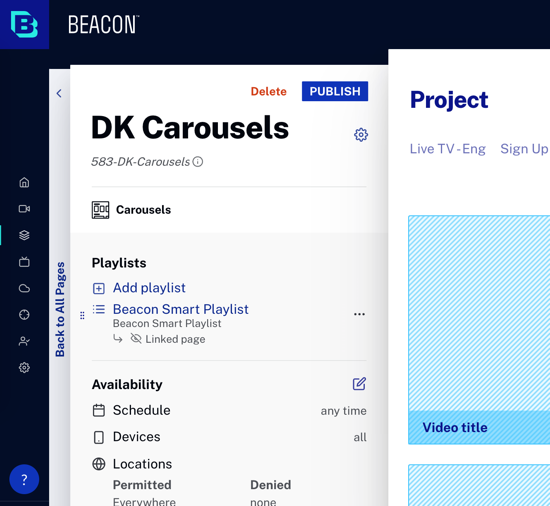
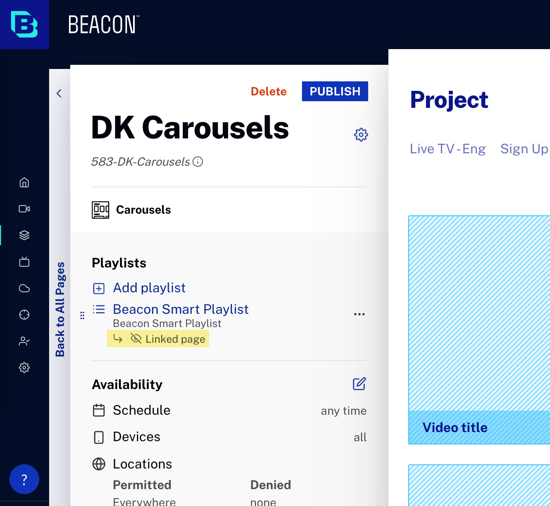
Changed page name

Changed region(s): [[0.1855, 0.6522, 0.4018, 0.7115]]

diff --git a/_site/layout/managing-linked-pages.html b/_site/layout/managing-linked-pages.html
@@ -5,9 +5,9 @@
   <meta charset="utf-8">
   <meta name="robots" content="noindex,nofollow"> 
   <meta name="viewport" content="width=device-width, initial-scale=1, shrink-to-fit=no">
-  <meta name="description" content="In this topic, you will learn how to create a linked page which will display all the videos in a carousel on a separate page. ">
+  <meta name="description" content="In this topic, you will learn how to create, delete and edit a linked page which will display all the videos in a carousel on a separate page. ">
   
-  <title>Creating Linked Pages</title>
+  <title>Managing Linked Pages</title>
   <link rel="apple-touch-icon" sizes="180x180" href="/apple-touch-icon.png">
   <link rel="icon" type="image/png" sizes="32x32" href="/favicon-32x32.png">
   <link rel="icon" type="image/png" sizes="16x16" href="/favicon-16x16.png">
@@ -64,7 +64,7 @@ function doGTranslate(lang_pair) {if(lang_pair.value)lang_pair=lang_pair.value;i
       
       
       
-      <li class="breadcrumb-item active" aria-current="page">Creating Linked Pages</li>
+      <li class="breadcrumb-item active" aria-current="page">Managing Linked Pages</li>
       
       
     </nav>
@@ -1386,9 +1386,9 @@ function doGTranslate(lang_pair) {if(lang_pair.value)lang_pair=lang_pair.value;i
 </details>
 
 
-<h1>Creating Linked Pages</h1>
+<h1>Managing Linked Pages</h1>
 <article class="bcls-article">
-  <summary>In this topic, you will learn how to create a linked page which will display all the videos in a carousel on a separate page. </summary>
+  <summary>In this topic, you will learn how to create, delete and edit a linked page which will display all the videos in a carousel on a separate page. </summary>
 
   <section class="bcls-section">
     <h2 id="Introduction">Introduction</h2>
@@ -1398,28 +1398,36 @@ function doGTranslate(lang_pair) {if(lang_pair.value)lang_pair=lang_pair.value;i
 
   <section class="bcls-section">
     <h2 id="Creating_a_linked_page">Creating a linked page</h2>
-    <p>The following are the steps required to create a linked list:</p>
+    <p>The following are the steps required to create a linked page:</p>
     <ol class="bcls-tasklist">
       <li>In the <strong>Layout</strong> module navigate to the properties of a page that contains a carousel.</li>
-      <li></li>
-      <li></li>
-      <li></li>
-      <li></li>
+      <li>To the right of the playlist whose contents you wish to display in a linked page, click the elipses (...).</li>
+      <li>In the playlist settings dialog which opens, click <span class="button-blue">More layout options</span>.
+        <figure class="bcls-figure">
+          <img class="bcls-image" src="/assets/images/layout/creating-linked-pages/more-layout-options.png" alt="more layout options">
+        </figure>
+      </li>
+      <li>In the playlist layout dialog which opens, to the right of <strong>Linked page</strong>, click <span class="button-blue-text"><i class="button-icon" data-feather="plus"></i>Add</span>.
+        <figure class="bcls-figure">
+          <img class="bcls-image" src="/assets/images/layout/creating-linked-pages/add-linked-page.png" alt="add linked page">
+        </figure>
+      </li>
+      <li>Choose the layout for the linked page.
+        <figure class="bcls-figure">
+          <img class="bcls-image" src="/assets/images/layout/creating-linked-pages/linked-page-layout.png" alt="linked page layout">
+        </figure>
+      </li>
+      <li>Click <span class="button-blue">Save</span>.</li>
+      <li>Click <span class="button-blue">Publish</span> and confirm your action in the dialog that appears.</li>
+      <li>Return to your page's properties.</li>
+      <li>You will be returned to the page properties page. Check to be sure you can see the <strong>Linked page</strong> indicator (highlighted).
+        <figure class="bcls-figure">
+          <img class="bcls-image" src="/assets/images/layout/creating-linked-pages/see-linked-page.png" alt="see linked page">
+        </figure>
+      </li>
     </ol>
   </section>
 
-  <figure class="bcls-figure">
-    <img class="bcls-image" src="/assets/images/layout/creating-linked-pages/more-layout-options.png" alt="more layout options">
-  </figure>
-  <figure class="bcls-figure">
-    <img class="bcls-image" src="/assets/images/layout/creating-linked-pages/add-linked-page.png" alt="add linked page">
-  </figure>
-  <figure class="bcls-figure">
-    <img class="bcls-image" src="/assets/images/layout/creating-linked-pages/linked-page-layout.png" alt="linked page layout">
-  </figure>
-  <figure class="bcls-figure">
-    <img class="bcls-image" src="/assets/images/layout/creating-linked-pages/see-linked-page.png" alt="see linked page">
-  </figure>
 
 
 
@@ -1432,6 +1440,8 @@ Select a layout for the new linked page and click "Create"
 Add playlist content to the linked page and then publish the linked page when you're ready
 The linked page will show up in the Beacon app if the playlist with the attached linked page has enough content (in practice this is about 25 videos I think, but might be configurable on an account level)
 In the Studio module, you'll see a linked page indicator below any playlist that has a linked page attached
+
+to edit a linked page ...
 <!-- complete bootstrap layout -->
 <!-- <nav id="more_resources">
   <h2 id="more_resources_header" style="margin-left: 1rem !important;">More Resources</h2>

diff --git a/layout/managing-linked-pages.html b/layout/managing-linked-pages.html
@@ -1,0 +1,62 @@
+---
+title: "Managing Linked Pages"
+description: "In this topic, you will learn how to create, delete and edit a linked page which will display all the videos in a carousel on a separate page. "
+parent: "Managing Pages"
+layout: "staging"
+---
+<h1>{{ page.title }}</h1>
+<article class="bcls-article">
+  <summary>{{ page.description }}</summary>
+
+  <section class="bcls-section">
+    <h2 id="Introduction">Introduction</h2>
+    <p>If you have a page with a carousel that contains a playlist of more than 25 videos you can create a <em>linked page</em> that will automatically be shown in lieu of the very wide carousel. Normally you would want the large number of videos display in a format, like a grid, where the viewer doesn't have to scroll and scroll to see all the videos.</p>
+    <p>Note that a linked page can only be defined for a page that displays videos in a carousel. The single exception to this statement is a linked page cannot be created when the <em>Hero (Autoplay Channel)</em> is the layout selected for the page from which you wish to link.</p>
+  </section>
+
+  <section class="bcls-section">
+    <h2 id="Creating_a_linked_page">Creating a linked page</h2>
+    <p>The following are the steps required to create a linked page:</p>
+    <ol class="bcls-tasklist">
+      <li>In the <strong>Layout</strong> module navigate to the properties of a page that contains a carousel.</li>
+      <li>To the right of the playlist whose contents you wish to display in a linked page, click the elipses (...).</li>
+      <li>In the playlist settings dialog which opens, click <span class="button-blue">More layout options</span>.
+        <figure class="bcls-figure">
+          <img class="bcls-image" src="/assets/images/layout/creating-linked-pages/more-layout-options.png" alt="more layout options">
+        </figure>
+      </li>
+      <li>In the playlist layout dialog which opens, to the right of <strong>Linked page</strong>, click <span class="button-blue-text"><i class="button-icon" data-feather="plus"></i>Add</span>.
+        <figure class="bcls-figure">
+          <img class="bcls-image" src="/assets/images/layout/creating-linked-pages/add-linked-page.png" alt="add linked page">
+        </figure>
+      </li>
+      <li>Choose the layout for the linked page.
+        <figure class="bcls-figure">
+          <img class="bcls-image" src="/assets/images/layout/creating-linked-pages/linked-page-layout.png" alt="linked page layout">
+        </figure>
+      </li>
+      <li>Click <span class="button-blue">Save</span>.</li>
+      <li>Click <span class="button-blue">Publish</span> and confirm your action in the dialog that appears.</li>
+      <li>Return to your page's properties.</li>
+      <li>You will be returned to the page properties page. Check to be sure you can see the <strong>Linked page</strong> indicator (highlighted).
+        <figure class="bcls-figure">
+          <img class="bcls-image" src="/assets/images/layout/creating-linked-pages/see-linked-page.png" alt="see linked page">
+        </figure>
+      </li>
+    </ol>
+  </section>
+
+
+
+
+</article>
+
+
+For any content-based page layout that has content displayed in a carousel (except the Auto Play layout), open the "options menu" for the playlist that you'd like to use for the attached linked page and click "more layout options"
+At the bottom of the "more layout options modal", there should be a "Linked page" control with a button to add (or remove) a linked page. Click the add button to attach a linked page to this playlist.
+Select a layout for the new linked page and click "Create"
+Add playlist content to the linked page and then publish the linked page when you're ready
+The linked page will show up in the Beacon app if the playlist with the attached linked page has enough content (in practice this is about 25 videos I think, but might be configurable on an account level)
+In the Studio module, you'll see a linked page indicator below any playlist that has a linked page attached
+
+to edit a linked page ...
